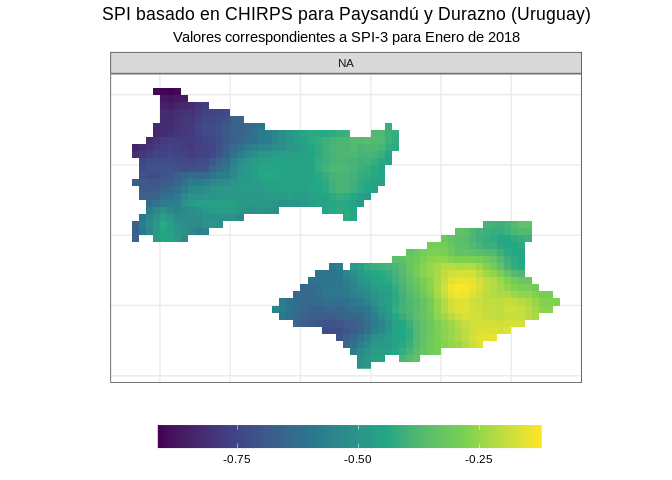
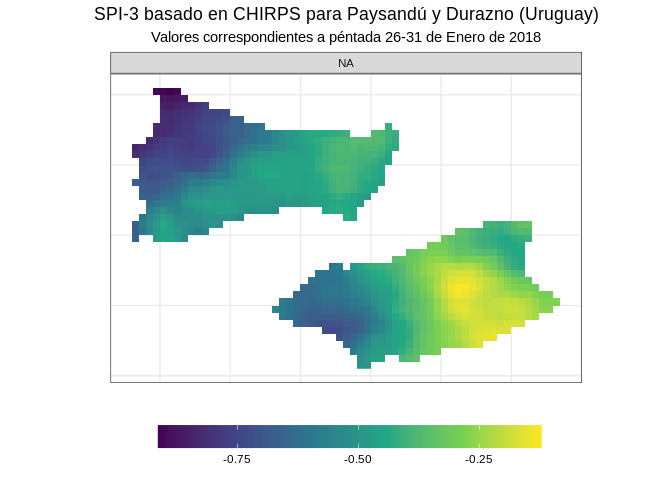
Correcciones varias

Changed region(s): [[0.125, 0.0, 0.9062, 0.0938]]

diff --git a/README.md b/README.md
@@ -8,7 +8,7 @@
 
 #### Guillermo Podestá (<gpodesta@rsmas.miami.edu>)
 
-#### 08 de diciembre de 2020
+#### 09 de diciembre de 2020
 
 # 1\. Introducción
 
@@ -26,18 +26,19 @@ El público al cual está destinado este documento está conformado por
 desarrolladores de software, programadores científicos o investigadores
 interesados en acceder a algunos de los datos del CRC-SAS. En cualquier
 caso, se asume que el lector tiene conocimientos previos de
-programación. La provisión de datos por parte del CRC-SAS se hace a
-través de lo que se llama API (**A**pplication **P**rogramming
-**I**nterface), que ofrece una una forma de comunicarse e interactuar
-con un servidor computacional remoto para acceder a datos almacenados en
-ese servidor. Una API generalmente involucra un conjunto de funciones
-que se proveen a fin de ser utilizadas por otro software implementado
-por el usuario \[1\]. El acceso a esta API no es interactivo ni a través
-de una interfaz gráfica, sino programático (o sea, a través de un código
-implementado en un lenguaje de programación). Es importante destacar
-también que la API que se describe aquí es un prototipo experimental,
-por lo que está sujeta a posibles modificaciones sustanciales en su
-funcionamiento.
+programación.
+
+La provisión de datos por parte del CRC-SAS se hace a través de lo que
+se llama API (**A**pplication **P**rogramming **I**nterface), que ofrece
+una una forma de comunicarse e interactuar con un servidor computacional
+remoto para acceder a datos almacenados en ese servidor. Una API
+generalmente involucra un conjunto de funciones que se proveen a fin de
+ser utilizadas por otro software implementado por el usuario \[1\]. El
+acceso a esta API no es interactivo ni a través de una interfaz gráfica,
+sino programático (o sea, a través de un código implementado en un
+lenguaje de programación). Es importante destacar también que la API que
+se describe aquí es un prototipo experimental, por lo que está sujeta a
+posibles modificaciones sustanciales en su funcionamiento.
 
 # 2\. Conjuntos de datos disponibles en el CRC-SAS
 
@@ -1578,8 +1579,8 @@ ggplot2::ggplot(data = datos.chirps) +
                                 na.value = "white", guide = "colourbar", aesthetics = "fill") +
   ggplot2::guides(fill = ggplot2::guide_colourbar(barwidth = 20 , label.position = "bottom")) +
   ggplot2::labs(x = "", y = "", fill = "",
-                title = "SPI basado en CHIRPS para Paysandú y Durazno (Uruguay)",
-                subtitle = "Valores correspondientes a SPI-3 para Enero de 2018") +
+                title = "SPI-3 basado en CHIRPS para Paysandú y Durazno (Uruguay)",
+                subtitle = "Valores correspondientes a péntada 26-31 de Enero de 2018") +
   ggplot2::theme_bw() +
   ggplot2::theme(
     legend.position = 'bottom',
@@ -1594,7 +1595,7 @@ ggplot2::ggplot(data = datos.chirps) +
 
 <img src="Manual_Referencia_API_files/figure-gfm/unnamed-chunk-22-1.png" style="display: block; margin: auto;" />
 
-### Pronósticos de precipitación y sequía a 15 días usando el producto CHIRPS-GEFS
+### 4.7.3. Pronósticos de precipitación y sequía a 15 días usando el producto CHIRPS-GEFS
 
 La evolución esperada de la sequía en las próximas dos semanas se basa
 en un pronóstico de lluvias para los proximos 15 días generado por el
@@ -1729,7 +1730,7 @@ ggplot2::ggplot(data = datos.chirps.gefs) +
 
 <img src="Manual_Referencia_API_files/figure-gfm/unnamed-chunk-23-1.png" style="display: block; margin: auto;" />
 
-## Índice de Stress Evaporativo (ESI) y percentiles derivados
+## 4.8. Índice de Stress Evaporativo (ESI) y percentiles derivados
 
 El Índice de Estrés Evaporativo (o, en adelante, ESI por sus siglas en
 inglés) identifica regiones donde la vegetación está sufriendo estrés
